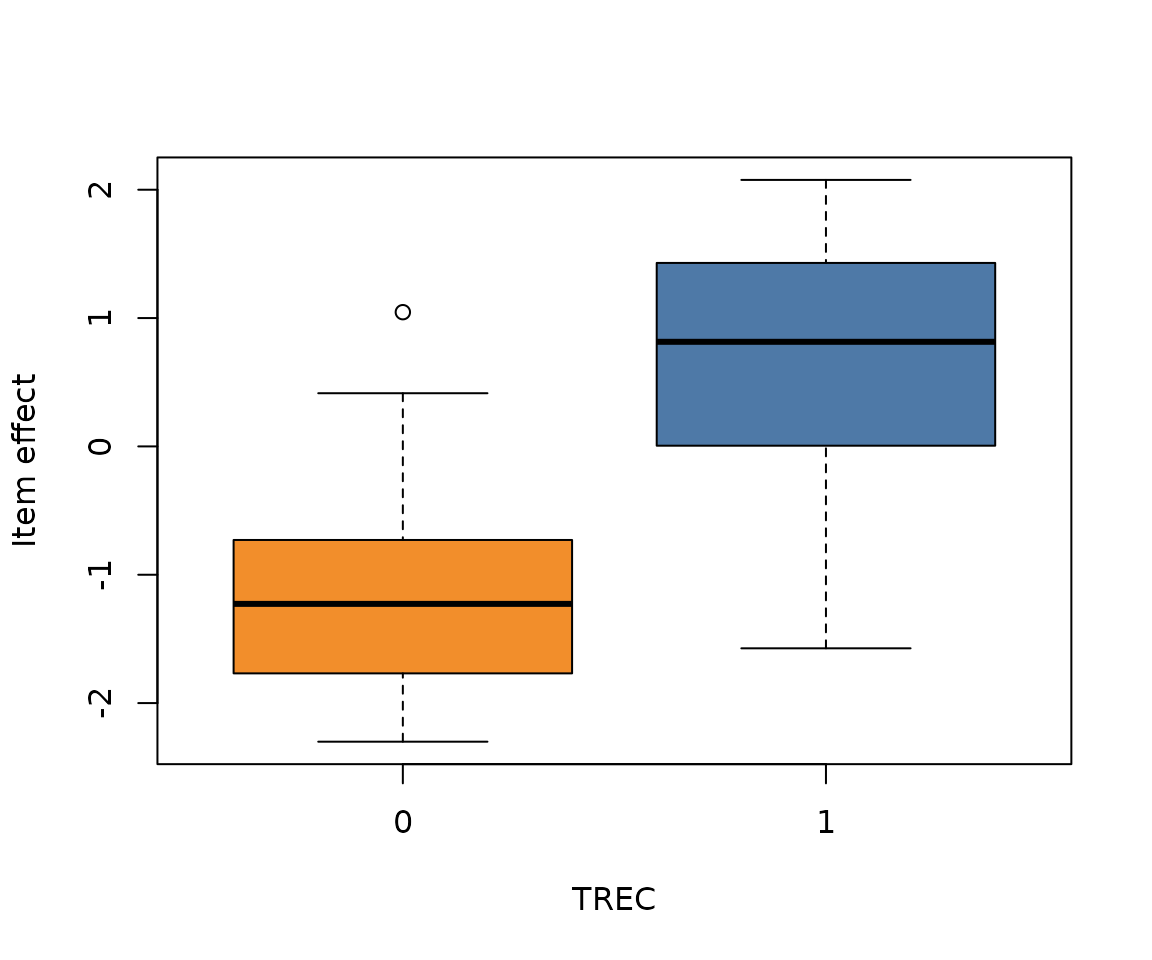
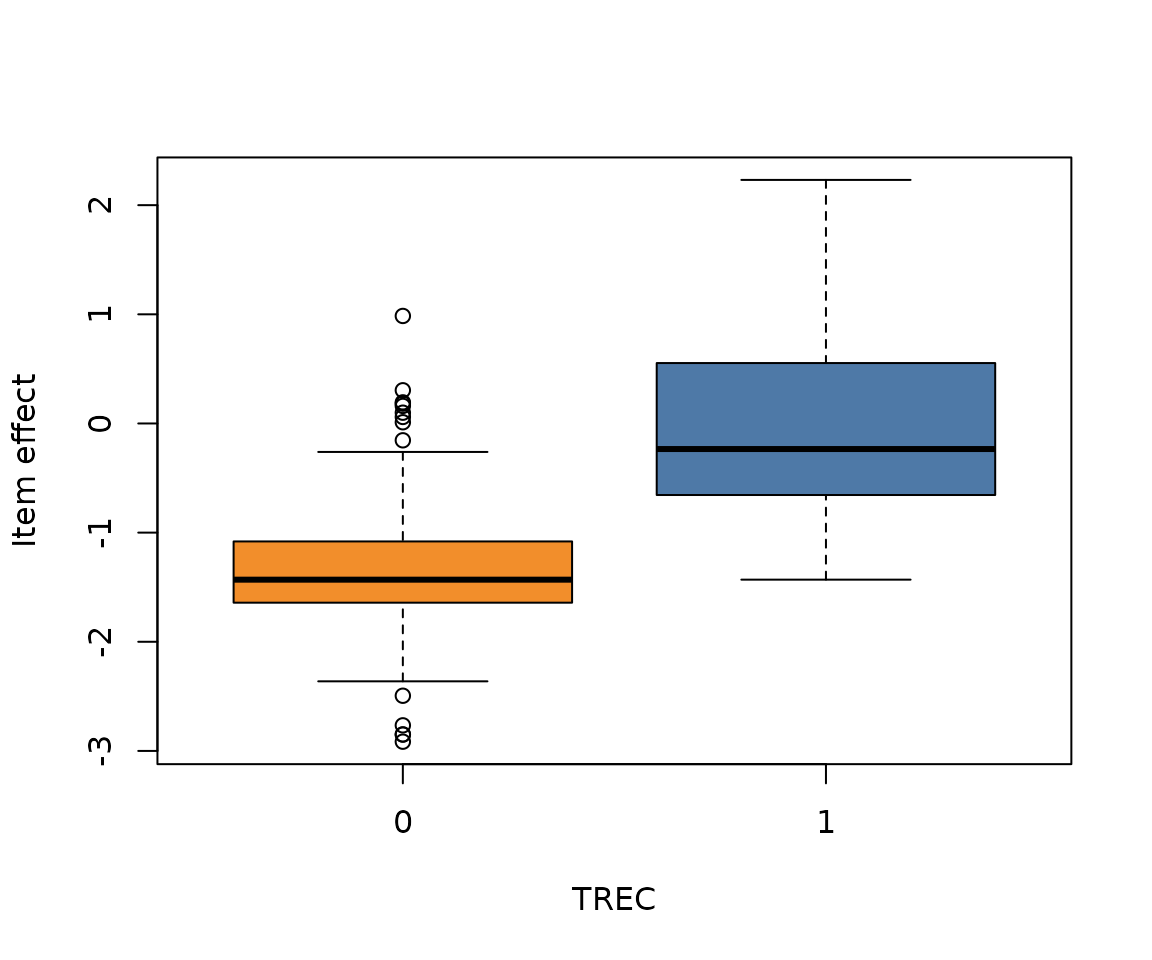
Deploying to gh-pages from @ giuseppealfonzetti/AgreementPhi@3184d91005bc92ed215e62ef2d36eb4d9c1792dd 🚀

diff --git a/articles/roitero2021.html b/articles/roitero2021.html
@@ -93,9 +93,9 @@ repository</a>.</p>
 <p>For simplicity, here we focus on a single topic and look at how the
 related items were assessed.</p>
 <div class="sourceCode" id="cb2"><pre class="downlit sourceCode r">
-<code class="sourceCode R"><span><span class="va">topic</span> <span class="op">&lt;-</span> <span class="fu"><a href="https://rdrr.io/r/base/subset.html" class="external-link">subset</a></span><span class="op">(</span><span class="va">roitero2021</span>, <span class="va">topic_id</span> <span class="op">==</span> <span class="fl">403</span><span class="op">)</span></span>
+<code class="sourceCode R"><span><span class="va">topic</span> <span class="op">&lt;-</span> <span class="fu"><a href="https://rdrr.io/r/base/subset.html" class="external-link">subset</a></span><span class="op">(</span><span class="va">roitero2021</span>, <span class="va">topic_id</span> <span class="op">==</span> <span class="fl">418</span><span class="op">)</span></span>
 <span><span class="fu"><a href="https://rdrr.io/r/base/nrow.html" class="external-link">nrow</a></span><span class="op">(</span><span class="va">topic</span><span class="op">)</span></span>
-<span><span class="co">#&gt; [1] 1456</span></span></code></pre></div>
+<span><span class="co">#&gt; [1] 3216</span></span></code></pre></div>
 <p>We retain only workers who “correctly” responded to the gold items
 (high-relevance <code>"H"</code> above threshold and non-relevant
 <code>"N"</code> below threshold) and then keep only non-gold items.</p>
@@ -108,7 +108,7 @@ related items were assessed.</p>
 <span></span>
 <span><span class="va">topic</span> <span class="op">&lt;-</span> <span class="fu"><a href="https://rdrr.io/r/base/subset.html" class="external-link">subset</a></span><span class="op">(</span><span class="va">topic</span>, <span class="va">unit_id</span> <span class="op"><a href="https://rdrr.io/r/base/match.html" class="external-link">%in%</a></span> <span class="va">select_workers</span> <span class="op">&amp;</span> <span class="va">gold</span> <span class="op">==</span> <span class="st">"null"</span><span class="op">)</span></span>
 <span><span class="fu"><a href="https://rdrr.io/r/base/nrow.html" class="external-link">nrow</a></span><span class="op">(</span><span class="va">topic</span><span class="op">)</span></span>
-<span><span class="co">#&gt; [1] 432</span></span></code></pre></div>
+<span><span class="co">#&gt; [1] 2088</span></span></code></pre></div>
 <p>As scores were collected on a 0–100 scale, we map them onto
 <code>[0,1]</code> by simply dividing by 100. To build a
 <code>rating_data</code> object we use the <code><a href="../reference/rating_data.html">rating_data()</a></code>
@@ -120,60 +120,23 @@ automatically detects the inflated beta ratings.</p>
 <span><span class="va">rd</span> <span class="op">&lt;-</span> <span class="fu"><a href="../reference/rating_data.html">rating_data</a></span><span class="op">(</span><span class="va">ratings</span>, <span class="va">items</span><span class="op">)</span></span>
 <span><span class="va">rd</span></span>
 <span><span class="co">#&gt; - Data type: inflated </span></span>
-<span><span class="co">#&gt; - Inflation: zeros = 45.8% / ones = 4.6% </span></span>
-<span><span class="co">#&gt; - Items: 108 ( 16 degenerate )</span></span>
-<span><span class="co">#&gt; - Average budget per item: 4 </span></span>
-<span><span class="co">#&gt; - n: 432</span></span></code></pre></div>
+<span><span class="co">#&gt; - Inflation: zeros = 46.1% / ones = 2.4% </span></span>
+<span><span class="co">#&gt; - Items: 241 ( 1 degenerate )</span></span>
+<span><span class="co">#&gt; - Average budget per item: 8.66 </span></span>
+<span><span class="co">#&gt; - n: 2088</span></span></code></pre></div>
 <p>As printed, the checks detected two degenerate items. These
 correspond to documents where the same value is given by all raters</p>
 <div class="sourceCode" id="cb5"><pre class="downlit sourceCode r">
 <code class="sourceCode R"><span><span class="va">degen_docs</span> <span class="op">&lt;-</span> <span class="fu"><a href="https://rdrr.io/r/base/levels.html" class="external-link">levels</a></span><span class="op">(</span><span class="fu"><a href="https://rdrr.io/r/base/factor.html" class="external-link">factor</a></span><span class="op">(</span><span class="va">topic</span><span class="op">$</span><span class="va">document_id</span><span class="op">)</span><span class="op">)</span><span class="op">[</span><span class="va">rd</span><span class="op">$</span><span class="va">degen_ids</span><span class="op">]</span></span>
 <span><span class="va">d</span> <span class="op">&lt;-</span> <span class="fu"><a href="https://rdrr.io/r/base/subset.html" class="external-link">subset</a></span><span class="op">(</span><span class="va">topic</span>, <span class="va">document_id</span> <span class="op"><a href="https://rdrr.io/r/base/match.html" class="external-link">%in%</a></span> <span class="va">degen_docs</span>, select <span class="op">=</span> <span class="fu"><a href="https://rdrr.io/r/base/c.html" class="external-link">c</a></span><span class="op">(</span><span class="va">document_id</span>, <span class="va">relevance_score</span><span class="op">)</span><span class="op">)</span></span>
 <span><span class="va">d</span><span class="op">[</span><span class="fu"><a href="https://rdrr.io/r/base/order.html" class="external-link">order</a></span><span class="op">(</span><span class="va">d</span><span class="op">$</span><span class="va">document_id</span><span class="op">)</span>, <span class="op">]</span></span>
-<span><span class="co">#&gt;             document_id relevance_score</span></span>
-<span><span class="co">#&gt; 157105      FBIS4-20504               0</span></span>
-<span><span class="co">#&gt; 157767      FBIS4-20504               0</span></span>
-<span><span class="co">#&gt; 158383      FBIS4-20504               0</span></span>
-<span><span class="co">#&gt; 157161      FBIS4-44913               0</span></span>
-<span><span class="co">#&gt; 157331      FBIS4-44913               0</span></span>
-<span><span class="co">#&gt; 157468      FBIS4-44913               0</span></span>
-<span><span class="co">#&gt; 158122      FBIS4-44913               0</span></span>
-<span><span class="co">#&gt; 157747      FBIS4-46649               0</span></span>
-<span><span class="co">#&gt; 157972      FBIS4-46649               0</span></span>
-<span><span class="co">#&gt; 157133 FR940525-1-00086               0</span></span>
-<span><span class="co">#&gt; 157335 FR940525-1-00086               0</span></span>
-<span><span class="co">#&gt; 158314 FR940525-1-00086               0</span></span>
-<span><span class="co">#&gt; 157823 FR940603-0-00134               0</span></span>
-<span><span class="co">#&gt; 158271 FR940603-0-00134               0</span></span>
-<span><span class="co">#&gt; 157455 FR940603-0-00153               0</span></span>
-<span><span class="co">#&gt; 157442 FR940725-2-00141               8</span></span>
-<span><span class="co">#&gt; 157251 FR940902-1-00048               0</span></span>
-<span><span class="co">#&gt; 157368 FR940902-1-00048               0</span></span>
-<span><span class="co">#&gt; 157806 FR940902-1-00048               0</span></span>
-<span><span class="co">#&gt; 157988 FR940902-1-00048               0</span></span>
-<span><span class="co">#&gt; 158406 FR940902-1-00048               0</span></span>
-<span><span class="co">#&gt; 157206 FR940913-2-00004               0</span></span>
-<span><span class="co">#&gt; 158281 FR940913-2-00004               0</span></span>
-<span><span class="co">#&gt; 157822 FR941130-0-00122               0</span></span>
-<span><span class="co">#&gt; 157255        FT911-805               0</span></span>
-<span><span class="co">#&gt; 157390        FT911-805               0</span></span>
-<span><span class="co">#&gt; 157970        FT911-805               0</span></span>
-<span><span class="co">#&gt; 158184        FT911-805               0</span></span>
-<span><span class="co">#&gt; 158237        FT911-805               0</span></span>
-<span><span class="co">#&gt; 158388        FT911-805               0</span></span>
-<span><span class="co">#&gt; 157163       FT944-2249               0</span></span>
-<span><span class="co">#&gt; 158261       FT944-2249               0</span></span>
-<span><span class="co">#&gt; 158385       FT944-2249               0</span></span>
-<span><span class="co">#&gt; 157123       FT944-2266               0</span></span>
-<span><span class="co">#&gt; 157638       FT944-2266               0</span></span>
-<span><span class="co">#&gt; 157967       FT944-2266               0</span></span>
-<span><span class="co">#&gt; 158269       FT944-2266               0</span></span>
-<span><span class="co">#&gt; 157152       FT944-2690               0</span></span>
-<span><span class="co">#&gt; 157433       FT944-2690               0</span></span>
-<span><span class="co">#&gt; 157966       FT944-2690               0</span></span>
-<span><span class="co">#&gt; 158318       FT944-2690               0</span></span>
-<span><span class="co">#&gt; 158127    LA091489-0031               0</span></span>
-<span><span class="co">#&gt; 157729    LA120689-0083               3</span></span></code></pre></div>
+<span><span class="co">#&gt;        document_id relevance_score</span></span>
+<span><span class="co">#&gt; 141537 FBIS3-26358               0</span></span>
+<span><span class="co">#&gt; 141872 FBIS3-26358               0</span></span>
+<span><span class="co">#&gt; 142406 FBIS3-26358               0</span></span>
+<span><span class="co">#&gt; 143087 FBIS3-26358               0</span></span>
+<span><span class="co">#&gt; 143612 FBIS3-26358               0</span></span>
+<span><span class="co">#&gt; 143936 FBIS3-26358               0</span></span></code></pre></div>
 </div>
 <div class="section level2">
 <h2 id="fitting-the-agreement-model">Fitting the agreement model<a class="anchor" aria-label="anchor" href="#fitting-the-agreement-model"></a>
@@ -188,18 +151,16 @@ likelihood is used for estimation</p>
 <code><a href="https://rdrr.io/r/stats/coef.html" class="external-link">coef()</a></code> method</p>
 <div class="sourceCode" id="cb7"><pre class="downlit sourceCode r">
 <code class="sourceCode R"><span><span class="fu"><a href="https://rdrr.io/r/stats/coef.html" class="external-link">coef</a></span><span class="op">(</span><span class="va">fit</span><span class="op">)</span><span class="op">[</span><span class="fl">1</span><span class="op">:</span><span class="fl">10</span><span class="op">]</span></span>
-<span><span class="co">#&gt;        phi         k0         k1    alpha_1    alpha_2    alpha_3    alpha_4 </span></span>
-<span><span class="co">#&gt;  2.7809964 -1.2809263  2.5849451 -1.7610438 -0.8840457 -0.8055866 -1.4486444 </span></span>
-<span><span class="co">#&gt;    alpha_5    alpha_6    alpha_7 </span></span>
-<span><span class="co">#&gt; -1.2831001 -2.1263205 -0.5893108</span></span></code></pre></div>
+<span><span class="co">#&gt;       phi        k0        k1   alpha_1   alpha_2   alpha_3   alpha_4   alpha_5 </span></span>
+<span><span class="co">#&gt;  2.841631 -1.328231  2.974278 -1.597678 -1.382612 -1.729650 -1.646931 -1.248158 </span></span>
+<span><span class="co">#&gt;   alpha_6   alpha_7 </span></span>
+<span><span class="co">#&gt; -1.330361 -1.540069</span></span></code></pre></div>
 <p>where alphas for degenrate items are reported with infinite
 values</p>
 <div class="sourceCode" id="cb8"><pre class="downlit sourceCode r">
 <code class="sourceCode R"><span><span class="fu"><a href="https://rdrr.io/r/stats/coef.html" class="external-link">coef</a></span><span class="op">(</span><span class="va">fit</span><span class="op">)</span><span class="op">[</span><span class="fu"><a href="https://rdrr.io/r/base/paste.html" class="external-link">paste0</a></span><span class="op">(</span><span class="st">"alpha_"</span>, <span class="va">rd</span><span class="op">$</span><span class="va">degen_ids</span><span class="op">)</span><span class="op">]</span></span>
-<span><span class="co">#&gt;   alpha_8  alpha_11  alpha_13  alpha_29  alpha_32  alpha_34  alpha_37  alpha_40 </span></span>
-<span><span class="co">#&gt;      -Inf      -Inf      -Inf      -Inf      -Inf      -Inf -1.064533      -Inf </span></span>
-<span><span class="co">#&gt;  alpha_44  alpha_48  alpha_53  alpha_62  alpha_64  alpha_65 alpha_100 alpha_108 </span></span>
-<span><span class="co">#&gt;      -Inf      -Inf      -Inf      -Inf      -Inf      -Inf      -Inf -1.405803</span></span></code></pre></div>
+<span><span class="co">#&gt; alpha_12 </span></span>
+<span><span class="co">#&gt;     -Inf</span></span></code></pre></div>
 <p>The <code><a href="https://rdrr.io/r/stats/confint.html" class="external-link">confint()</a></code> method returns the confidence intervals
 for parameter estimates (<code>phi</code>, <code>k0</code>,
 <code>k1</code>) as well as for agreement. Note that, for the latter,
@@ -207,14 +168,14 @@ intervals are constructed via delta method</p>
 <div class="sourceCode" id="cb9"><pre class="downlit sourceCode r">
 <code class="sourceCode R"><span><span class="fu"><a href="https://rdrr.io/r/stats/confint.html" class="external-link">confint</a></span><span class="op">(</span><span class="va">fit</span><span class="op">)</span></span>
 <span><span class="co">#&gt; $parameters</span></span>
-<span><span class="co">#&gt;      Estimate Std. Error     2.5 %     97.5 %</span></span>
-<span><span class="co">#&gt; phi  2.780996  0.2943545  2.204072  3.3579206</span></span>
-<span><span class="co">#&gt; k0  -1.280926  0.1440354 -1.563230 -0.9986222</span></span>
-<span><span class="co">#&gt; k1   2.584945  0.2596668  2.076008  3.0938826</span></span>
+<span><span class="co">#&gt;      Estimate Std. Error     2.5 %    97.5 %</span></span>
+<span><span class="co">#&gt; phi  2.841631 0.12506931  2.596500  3.086763</span></span>
+<span><span class="co">#&gt; k0  -1.328231 0.06043951 -1.446690 -1.209772</span></span>
+<span><span class="co">#&gt; k1   2.974278 0.15372395  2.672985  3.275572</span></span>
 <span><span class="co">#&gt; </span></span>
 <span><span class="co">#&gt; $agreement</span></span>
 <span><span class="co">#&gt;            Estimate Std. Error     2.5 %    97.5 %</span></span>
-<span><span class="co">#&gt; agreement 0.3562843 0.02045248 0.3161982 0.3963704</span></span></code></pre></div>
+<span><span class="co">#&gt; agreement 0.2828532 0.01201713 0.2593001 0.3064064</span></span></code></pre></div>
 </div>
 <div class="section level2">
 <h2 id="item-effects">Item effects<a class="anchor" aria-label="anchor" href="#item-effects"></a>

diff --git a/articles/roitero2021.md b/articles/roitero2021.md
@@ -32,9 +32,9 @@ related items were assessed.
 
 ``` r
 
-topic <- subset(roitero2021, topic_id == 403)
+topic <- subset(roitero2021, topic_id == 418)
 nrow(topic)
-#> [1] 1456
+#> [1] 3216
 ```
 
 We retain only workers who “correctly” responded to the gold items
@@ -51,7 +51,7 @@ select_workers <- intersect(
 
 topic <- subset(topic, unit_id %in% select_workers & gold == "null")
 nrow(topic)
-#> [1] 432
+#> [1] 2088
 ```
 
 As scores were collected on a 0–100 scale, we map them onto `[0,1]` by
@@ -67,10 +67,10 @@ items <- as.integer(factor(topic$document_id))
 rd <- rating_data(ratings, items)
 rd
 #> - Data type: inflated 
-#> - Inflation: zeros = 45.8% / ones = 4.6% 
-#> - Items: 108 ( 16 degenerate )
-#> - Average budget per item: 4 
-#> - n: 432
+#> - Inflation: zeros = 46.1% / ones = 2.4% 
+#> - Items: 241 ( 1 degenerate )
+#> - Average budget per item: 8.66 
+#> - n: 2088
 ```
 
 As printed, the checks detected two degenerate items. These correspond
@@ -81,50 +81,13 @@ to documents where the same value is given by all raters
 degen_docs <- levels(factor(topic$document_id))[rd$degen_ids]
 d <- subset(topic, document_id %in% degen_docs, select = c(document_id, relevance_score))
 d[order(d$document_id), ]
-#>             document_id relevance_score
-#> 157105      FBIS4-20504               0
-#> 157767      FBIS4-20504               0
-#> 158383      FBIS4-20504               0
-#> 157161      FBIS4-44913               0
-#> 157331      FBIS4-44913               0
-#> 157468      FBIS4-44913               0
-#> 158122      FBIS4-44913               0
-#> 157747      FBIS4-46649               0
-#> 157972      FBIS4-46649               0
-#> 157133 FR940525-1-00086               0
-#> 157335 FR940525-1-00086               0
-#> 158314 FR940525-1-00086               0
-#> 157823 FR940603-0-00134               0
-#> 158271 FR940603-0-00134               0
-#> 157455 FR940603-0-00153               0
-#> 157442 FR940725-2-00141               8
-#> 157251 FR940902-1-00048               0
-#> 157368 FR940902-1-00048               0
-#> 157806 FR940902-1-00048               0
-#> 157988 FR940902-1-00048               0
-#> 158406 FR940902-1-00048               0
-#> 157206 FR940913-2-00004               0
-#> 158281 FR940913-2-00004               0
-#> 157822 FR941130-0-00122               0
-#> 157255        FT911-805               0
-#> 157390        FT911-805               0
-#> 157970        FT911-805               0
-#> 158184        FT911-805               0
-#> 158237        FT911-805               0
-#> 158388        FT911-805               0
-#> 157163       FT944-2249               0
-#> 158261       FT944-2249               0
-#> 158385       FT944-2249               0
-#> 157123       FT944-2266               0
-#> 157638       FT944-2266               0
-#> 157967       FT944-2266               0
-#> 158269       FT944-2266               0
-#> 157152       FT944-2690               0
-#> 157433       FT944-2690               0
-#> 157966       FT944-2690               0
-#> 158318       FT944-2690               0
-#> 158127    LA091489-0031               0
-#> 157729    LA120689-0083               3
+#>        document_id relevance_score
+#> 141537 FBIS3-26358               0
+#> 141872 FBIS3-26358               0
+#> 142406 FBIS3-26358               0
+#> 143087 FBIS3-26358               0
+#> 143612 FBIS3-26358               0
+#> 143936 FBIS3-26358               0
 ```
 
 ## Fitting the agreement model
@@ -144,10 +107,10 @@ We can extract estimated coefficients with the familiar
 ``` r
 
 coef(fit)[1:10]
-#>        phi         k0         k1    alpha_1    alpha_2    alpha_3    alpha_4 
-#>  2.7809964 -1.2809263  2.5849451 -1.7610438 -0.8840457 -0.8055866 -1.4486444 
-#>    alpha_5    alpha_6    alpha_7 
-#> -1.2831001 -2.1263205 -0.5893108
+#>       phi        k0        k1   alpha_1   alpha_2   alpha_3   alpha_4   alpha_5 
+#>  2.841631 -1.328231  2.974278 -1.597678 -1.382612 -1.729650 -1.646931 -1.248158 
+#>   alpha_6   alpha_7 
+#> -1.330361 -1.540069
 ```
 
 where alphas for degenrate items are reported with infinite values
@@ -155,10 +118,8 @@ where alphas for degenrate items are reported with infinite values
 ``` r
 
 coef(fit)[paste0("alpha_", rd$degen_ids)]
-#>   alpha_8  alpha_11  alpha_13  alpha_29  alpha_32  alpha_34  alpha_37  alpha_40 
-#>      -Inf      -Inf      -Inf      -Inf      -Inf      -Inf -1.064533      -Inf 
-#>  alpha_44  alpha_48  alpha_53  alpha_62  alpha_64  alpha_65 alpha_100 alpha_108 
-#>      -Inf      -Inf      -Inf      -Inf      -Inf      -Inf      -Inf -1.405803
+#> alpha_12 
+#>     -Inf
 ```
 
 The [`confint()`](https://rdrr.io/r/stats/confint.html) method returns
@@ -170,14 +131,14 @@ constructed via delta method
 
 confint(fit)
 #> $parameters
-#>      Estimate Std. Error     2.5 %     97.5 %
-#> phi  2.780996  0.2943545  2.204072  3.3579206
-#> k0  -1.280926  0.1440354 -1.563230 -0.9986222
-#> k1   2.584945  0.2596668  2.076008  3.0938826
+#>      Estimate Std. Error     2.5 %    97.5 %
+#> phi  2.841631 0.12506931  2.596500  3.086763
+#> k0  -1.328231 0.06043951 -1.446690 -1.209772
+#> k1   2.974278 0.15372395  2.672985  3.275572
 #> 
 #> $agreement
 #>            Estimate Std. Error     2.5 %    97.5 %
-#> agreement 0.3562843 0.02045248 0.3161982 0.3963704
+#> agreement 0.2828532 0.01201713 0.2593001 0.3064064
 ```
 
 ## Item effects